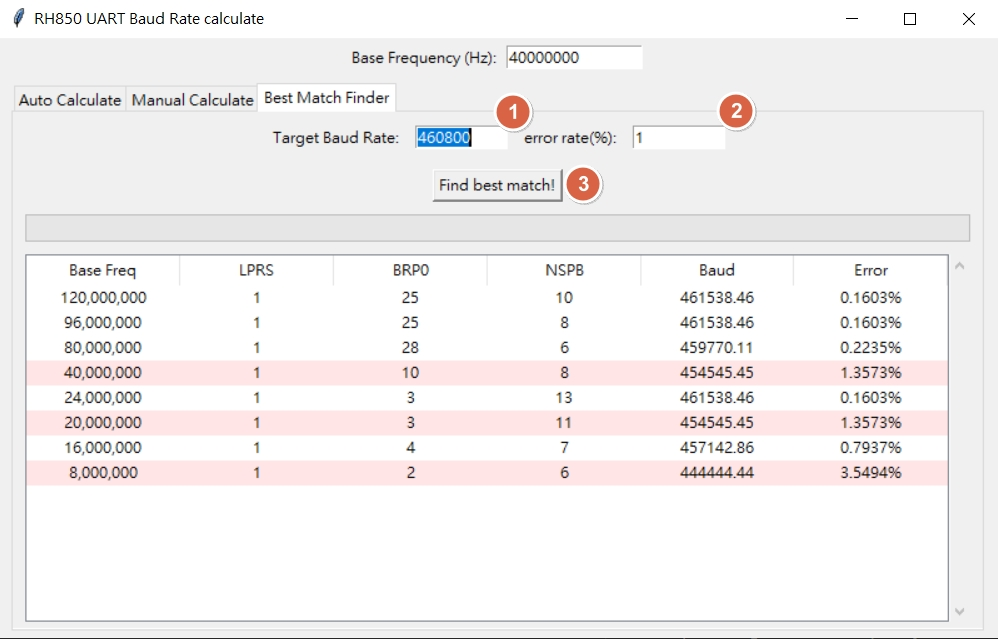
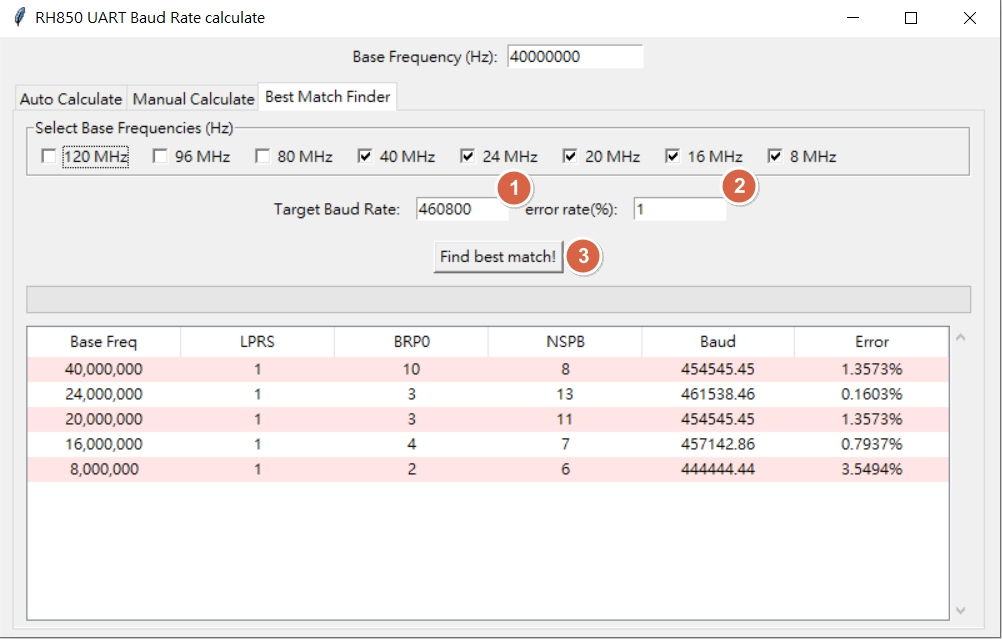
update
update

diff --git a/index.md b/index.md
@@ -28,7 +28,7 @@
 
 ---
 
-[download(python)](./RH850_uart_gui.pyw)
+[download(python)](python/RH850_uart_gui.pyw)
 
 * __use tab 3:Best Match Finder, to get best match__
 
